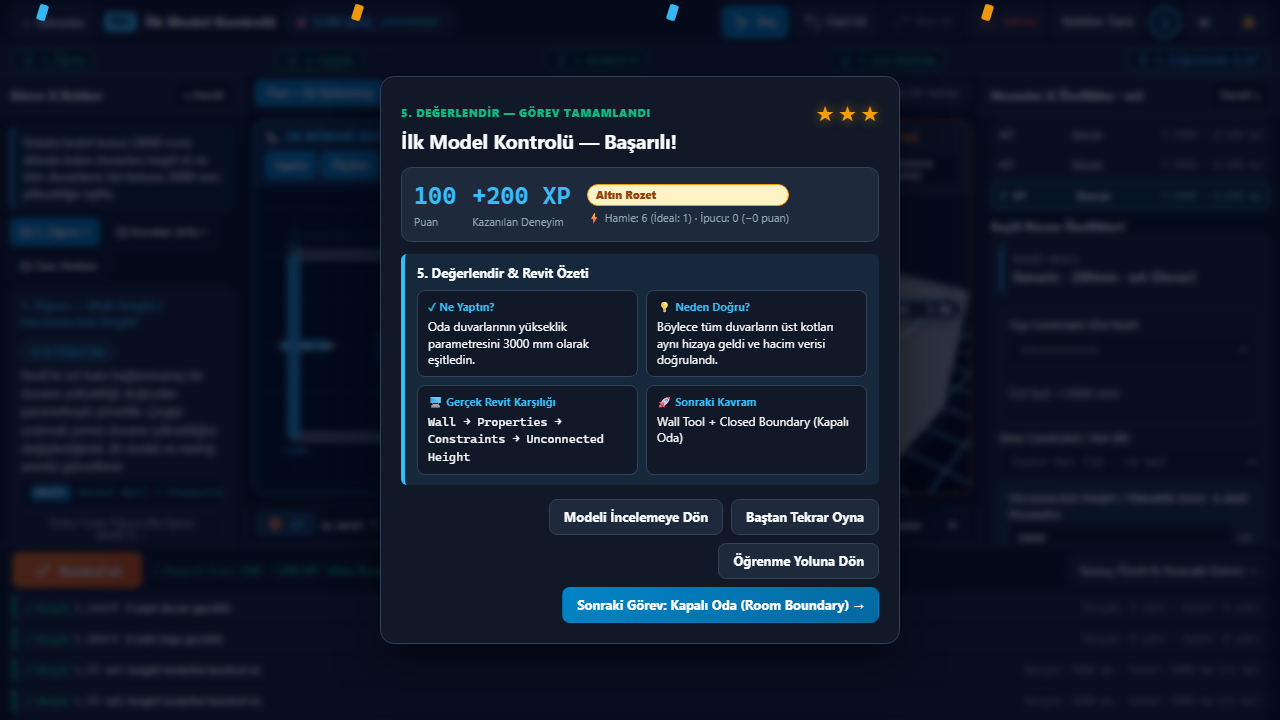
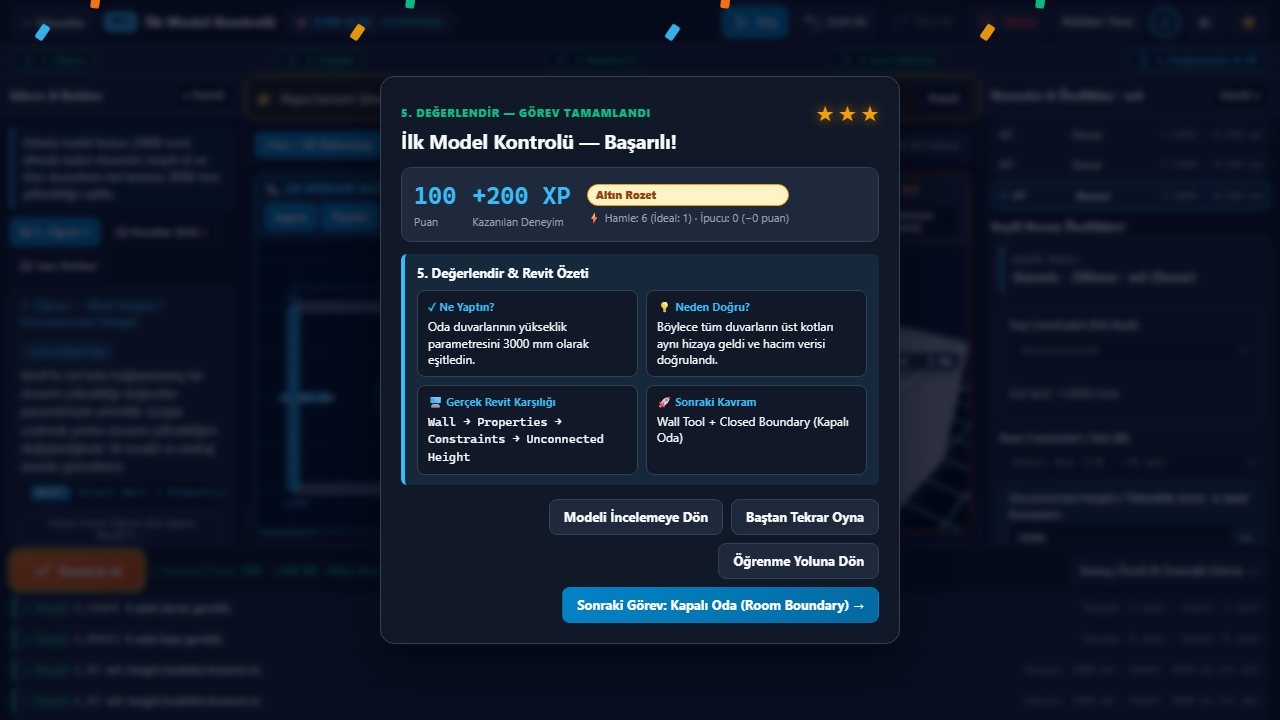
feat(ux): coach bar for first missions, pulsing next target, one-sentence goal with details, tighter phone layout

diff --git a/app/src/ui/workspace/CoachBar.tsx b/app/src/ui/workspace/CoachBar.tsx
@@ -1,0 +1,124 @@
+import React, { useEffect, useState } from 'react';
+import type { CriterionEvidence, MissionTask } from '../../domain/types';
+import type { ToolId } from './toolActions';
+import { TOOL_DEFS } from './toolActions';
+
+const COACH_MISSIONS = ['m01', 'm02', 'm03'];
+const OFF_KEY = 'bimquest.coach.off';
+
+export interface CoachStep {
+  text: string;
+  /** data-testid of the button to pulse. */
+  pulse?: string;
+  /** Element ids to pulse on the plan. */
+  planTargets: string[];
+  /** Offer a shortcut that opens the property sheet. */
+  openInspector?: boolean;
+}
+
+/**
+ * One next step for the first three missions: teaches the gestures
+ * (select, edit, draw, place, check) without scripting the answer values.
+ */
+export function coachStep(args: {
+  task: MissionTask;
+  criteria: CriterionEvidence[];
+  selectedId: string | null;
+  activeTool: ToolId;
+  allPass: boolean;
+}): CoachStep {
+  const { task, criteria, selectedId, activeTool, allPass } = args;
+  if (allPass) {
+    return { text: 'Hepsi tamam! Şimdi “Kontrol et”e bas.', pulse: 'check-btn', planTargets: [] };
+  }
+
+  const failing = criteria.filter((c) => !c.pass);
+  const creatable = task.permissions.creatableTypes;
+
+  // Missions that ask the player to draw or place something.
+  if (creatable.length > 0) {
+    const wantTool = creatable.find((t) => TOOL_DEFS.some((d) => d.id === t)) as ToolId | undefined;
+    if (wantTool && activeTool === 'select') {
+      const label = TOOL_DEFS.find((d) => d.id === wantTool)?.label ?? wantTool;
+      return { text: `Önce üstten “${label}” aracını seç.`, pulse: `tool-${wantTool}-btn`, planTargets: [] };
+    }
+    if (wantTool && activeTool === wantTool) {
+      const hint = TOOL_DEFS.find((d) => d.id === wantTool)?.hint ?? '';
+      return { text: hint, planTargets: [] };
+    }
+    // Created, but something is still off: fall through to editing.
+  }
+
+  const propertyTargets = failing
+    .map((c) => task.criteria.find((tc) => tc.id === c.id))
+    .flatMap((tc) => (tc && tc.type === 'property' ? [tc.elementId] : []));
+  const targets = [...new Set(propertyTargets)];
+  if (targets.length > 0) {
+    if (!selectedId || !targets.includes(selectedId)) {
+      return {
+        text: `Parlayan nesneye dokun (${targets.slice(0, 3).join(', ')}).`,
+        planTargets: targets,
+      };
+    }
+    return {
+      text: 'Seçtin! Şimdi hedefe uymayan değeri düzelt.',
+      planTargets: [],
+      openInspector: true,
+    };
+  }
+  return { text: 'Hedefe bak: eksik olan maddeyi tamamla.', planTargets: [] };
+}
+
+interface CoachBarProps {
+  task: MissionTask;
+  step: CoachStep;
+  onOpenInspector: () => void;
+}
+
+export const CoachBar: React.FC<CoachBarProps> = ({ task, step, onOpenInspector }) => {
+  const [off, setOff] = useState(() => {
+    try {
+      return window.localStorage.getItem(OFF_KEY) === '1';
+    } catch {
+      return false;
+    }
+  });
+  const active = COACH_MISSIONS.includes(task.id) && !off;
+
+  useEffect(() => {
+    if (!active || !step.pulse) return;
+    const el = document.querySelector(`[data-testid="${step.pulse}"]`);
+    el?.classList.add('bq-coach-pulse');
+    return () => el?.classList.remove('bq-coach-pulse');
+  }, [active, step.pulse]);
+
+  if (!active) return null;
+  return (
+    <div className="bq-coach-bar" data-testid="coach-bar" role="status">
+      <span className="bq-coach-icon" aria-hidden="true">👉</span>
+      <span className="bq-coach-text" data-testid="coach-text">
+        {step.text}
+      </span>
+      {step.openInspector && (
+        <button type="button" className="bq-chip-btn bq-chip-accent" data-testid="coach-open-inspector" onClick={onOpenInspector}>
+          Özellikleri aç
+        </button>
+      )}
+      <button
+        type="button"
+        className="bq-chip-btn"
+        data-testid="coach-off-btn"
+        onClick={() => {
+          setOff(true);
+          try {
+            window.localStorage.setItem(OFF_KEY, '1');
+          } catch {
+            /* private mode: fine, it just shows again next time */
+          }
+        }}
+      >
+        Kapat
+      </button>
+    </div>
+  );
+};

diff --git a/app/tests/bim-tools.spec.ts b/app/tests/bim-tools.spec.ts
@@ -187,3 +187,44 @@ test.describe('Geri bildirim — sürükleyerek duvar çizme', () => {
     await expect(page.getByTestId('results-recap-modal')).toBeVisible();
   });
 });
+
+test.describe('Rehber (coach) — ilk görevler', () => {
+  test('m01: parlayan nesne → seç → düzelt → Kontrol Et sırası', async ({ page }) => {
+    await page.setViewportSize({ width: 1280, height: 800 });
+    await page.goto('/');
+    await page.evaluate(() => localStorage.clear());
+    await page.reload();
+    await page.getByTestId('start-mission-m01').click();
+    await expect(page.getByTestId('coach-text')).toContainText('Parlayan');
+    const pulsing = page.locator('[data-testid^="plan-coach-"]').first();
+    await expect(pulsing).toBeAttached();
+    const id = (await pulsing.getAttribute('data-testid'))!.replace('plan-coach-', '');
+    await page.getByTestId(`object-row-${id}`).click();
+    await expect(page.getByTestId('coach-text')).toContainText('Seçtin');
+    for (const wid of ['w1', 'w2', 'w3', 'w4']) {
+      await page.getByTestId('object-row-' + wid).click();
+      const input = page.getByTestId('prop-input-height');
+      await input.fill('3000');
+      await input.press('Enter');
+    }
+    await expect(page.getByTestId('coach-text')).toContainText('Kontrol');
+    await expect(page.getByTestId('check-btn')).toHaveClass(/bq-coach-pulse/);
+    await page.getByTestId('coach-off-btn').click();
+    await expect(page.getByTestId('coach-bar')).toHaveCount(0);
+  });
+
+  test('m02: araç sırayla gösterilir', async ({ page }) => {
+    await page.setViewportSize({ width: 390, height: 844 });
+    await page.goto('/');
+    await page.evaluate(() => {
+      localStorage.clear();
+      localStorage.setItem('bimquest.save.v1', JSON.stringify({ saveVersion: 1, contentVersion: '1.0.0', completed: { m01: { bestScore: 100 } }, drafts: {}, settings: { sound: false, reducedMotion: true } }));
+    });
+    await page.reload();
+    await page.getByTestId('start-mission-m02').click();
+    await expect(page.getByTestId('coach-text')).toContainText('Duvar');
+    await expect(page.getByTestId('tool-wall-btn')).toHaveClass(/bq-coach-pulse/);
+    await page.getByTestId('tool-wall-btn').click();
+    await expect(page.getByTestId('coach-text')).toContainText('sürükleyip');
+  });
+});

diff --git a/app/src/ui/Workspace.tsx b/app/src/ui/Workspace.tsx
@@ -32,6 +32,7 @@ import { LevelsSheet } from './workspace/LevelsSheet';
 import { ProjectBrowser, SheetEditor } from './workspace/DocumentationPanels';
 import { ProjectDelivery } from './workspace/ProjectDelivery';
 import { MissionCard } from './workspace/MissionCard';
+import { CoachBar, coachStep } from './workspace/CoachBar';
 import { WarningsSheet } from './workspace/WarningsSheet';
 import { checkModel, checkOptionsFor } from '../domain/modelCheck';
 import { getChapterForMissionId } from '../content/curriculum';
@@ -507,6 +508,13 @@ export const Workspace: React.FC<WorkspaceProps> = ({
   );
   const drawingView = activeView && activeView.kind !== 'plan' ? activeView : null;
   const activePlanView = activeView && activeView.kind === 'plan' ? activeView : null;
+  const coach = coachStep({
+    task,
+    criteria: liveProgress.criteria,
+    selectedId,
+    activeTool,
+    allPass: liveProgress.allPass,
+  });
   const hasViews = model.elements.some((e) => e.type === 'view' || e.type === 'sheet');
   const hasModelCheckGoal = task.criteria.some((c) => c.type === 'modelClean');
   const pedagogicalSteps = useMemo(
@@ -885,6 +893,15 @@ export const Workspace: React.FC<WorkspaceProps> = ({
           data-tour="viewport-area"
           aria-label="Model Görünüm Alanı"
         >
+        <CoachBar
+          task={task}
+          step={coach}
+          onOpenInspector={() => {
+            setMobileDrawerTab('inspector');
+            setMobileSheetOpen(true);
+            setRightCollapsed(false);
+          }}
+        />
         <MissionCard objective={task.objective} criteria={liveProgress.criteria} />
         {fieldError && (
           <div className="bq-tool-error bq-mobile-only" role="alert" data-testid="tool-error-banner">
@@ -923,6 +940,7 @@ export const Workspace: React.FC<WorkspaceProps> = ({
           planTools={{
             onToolPoint: handleToolPoint,
             onToolDrag: handleToolDrag,
+            coachIds: new Set(coach.planTargets),
             chainStart: activeTool === 'grid' || activeTool === 'section' ? gridStart : chain.start,
             pickedWallIds: dimFirst ? new Set([dimFirst]) : pickedWalls,
             activeViewId: activePlanView?.id ?? null,

diff --git a/app/src/plan/PlanViewport.tsx b/app/src/plan/PlanViewport.tsx
@@ -43,6 +43,8 @@ export interface PlanViewportProps {
   onSelect: (id: string | null) => void;
   /** Any tap while a drawing tool is active (already snapped, mm). */
   onToolPoint?: (pt: [number, number], hit?: { wallId: string; along: number }) => void;
+  /** Elements the coach asks the player to touch next (pulsing ring). */
+  coachIds?: Set<string>;
   /** Press-drag-release with a line tool (Wall, Grid, Section). */
   onToolDrag?: (start: [number, number], end: [number, number]) => void;
   /** Where the running wall chain / grid line starts. */
@@ -69,6 +71,7 @@ export type PlanToolProps = Pick<
   PlanViewportProps,
   | 'onToolPoint'
   | 'onToolDrag'
+  | 'coachIds'
   | 'chainStart'
   | 'pickedWallIds'
   | 'roomGap'
@@ -133,6 +136,7 @@ export const PlanViewport: React.FC<PlanViewportProps> = ({
   onSelect,
   onToolPoint,
   onToolDrag,
+  coachIds,
   chainStart = null,
   pickedWallIds,
   roomGap = null,
@@ -1082,6 +1086,26 @@ export const PlanViewport: React.FC<PlanViewportProps> = ({
               </g>
             );
           })()}
+
+        {/* Coach: pulsing ring around what to touch next */}
+        {coachIds &&
+          walls
+            .filter((w) => coachIds.has(w.id))
+            .map((w) => (
+              <line
+                key={`coach-${w.id}`}
+                className="bq-coach-line"
+                data-testid={`plan-coach-${w.id}`}
+                x1={w.start[0]}
+                y1={w.start[1]}
+                x2={w.end[0]}
+                y2={w.end[1]}
+                stroke="#FACC15"
+                strokeWidth={w.thickness + 260}
+                strokeLinecap="round"
+                pointerEvents="none"
+              />
+            ))}
 
         {/* Walls picked for Floor / Roof */}
         {pickedWallIds &&

diff --git a/app/src/App.css b/app/src/App.css
@@ -2468,3 +2468,78 @@ select:focus-visible,
   background: rgba(239, 68, 68, 0.12);
   font-size: 0.85rem;
 }
+
+/* Coach: one next step for the first missions */
+.bq-coach-bar {
+  display: flex;
+  align-items: center;
+  gap: 8px;
+  flex-wrap: wrap;
+  padding: 8px 10px;
+  margin-bottom: 6px;
+  border-radius: 10px;
+  border: 1px solid #facc15;
+  background: rgba(250, 204, 21, 0.12);
+  font-size: 0.92rem;
+  font-weight: 600;
+}
+.bq-coach-text {
+  flex: 1 1 160px;
+}
+.bq-coach-pulse {
+  animation: bq-coach-pulse 1.1s ease-in-out infinite;
+  outline: 2px solid #facc15;
+  outline-offset: 2px;
+}
+@keyframes bq-coach-pulse {
+  0%, 100% { box-shadow: 0 0 0 0 rgba(250, 204, 21, 0.7); }
+  50% { box-shadow: 0 0 0 8px rgba(250, 204, 21, 0); }
+}
+.bq-coach-line {
+  animation: bq-coach-line 1.1s ease-in-out infinite;
+}
+@keyframes bq-coach-line {
+  0%, 100% { opacity: 0.15; }
+  50% { opacity: 0.55; }
+}
+.bq-link-btn {
+  background: none;
+  border: 1px solid var(--border-subtle);
+  border-radius: 50%;
+  min-width: 26px;
+  min-height: 26px;
+  color: inherit;
+  cursor: pointer;
+}
+.bq-mission-detail {
+  margin: 0 0 6px;
+  font-size: 0.85rem;
+  opacity: 0.85;
+}
+@media (prefers-reduced-motion: reduce) {
+  .bq-coach-pulse, .bq-coach-line { animation: none; }
+}
+.reduced-motion .bq-coach-pulse, .reduced-motion .bq-coach-line { animation: none; }
+
+@media (max-width: 640px) {
+  .bq-tool-hint {
+    display: none;
+  }
+  .bq-tool-options {
+    padding: 4px 8px;
+  }
+  .bq-plan-svg {
+    height: 44vh;
+    min-height: 260px;
+  }
+  .bq-coach-bar,
+  .bq-mission-card {
+    margin-bottom: 4px;
+  }
+}
+
+@media (max-width: 640px) {
+  .bq-toolbar-2d {
+    display: none;
+  }
+}

diff --git a/app/src/ui/workspace/MissionCard.tsx b/app/src/ui/workspace/MissionCard.tsx
@@ -12,12 +12,27 @@ interface MissionCardProps {
  */
 export const MissionCard: React.FC<MissionCardProps> = ({ objective, criteria }) => {
   const [open, setOpen] = useState(false);
+  const [more, setMore] = useState(false);
+  // First sentence is the goal; the rest is detail behind a tap.
+  const cut = objective.search(/[.!?](\s|$)/);
+  const goal = cut > 0 && cut < objective.length - 1 ? objective.slice(0, cut + 1) : objective;
+  const detail = objective.slice(goal.length).trim();
   const done = criteria.filter((c) => c.pass).length;
   return (
     <section className="bq-mission-card bq-mobile-only" data-testid="mission-card">
       <p className="bq-mission-goal">
-        <strong>🎯 Görev:</strong> {objective}
+        <strong>🎯 Görev:</strong> {goal}{' '}
+        {detail && (
+          <button type="button" className="bq-link-btn" data-testid="mission-card-more-btn" aria-expanded={more} onClick={() => setMore((v) => !v)}>
+            {more ? 'Gizle' : '?'}
+          </button>
+        )}
       </p>
+      {more && detail && (
+        <p className="bq-mission-detail" data-testid="mission-card-detail">
+          {detail}
+        </p>
+      )}
       <button
         type="button"
         className="bq-chip-btn"
